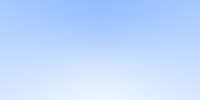
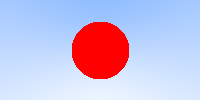
Ray tracing with sphere

Changed region(s): [[0.36, 0.21, 0.66, 0.81]]

diff --git a/src/main.rs b/src/main.rs
@@ -9,10 +9,22 @@ use std::path::Path;
 use ray::Ray;
 use vec3::Vec3;
 
-fn color(ray: &Ray) -> Vec3 {
-    let dir = ray.direction().normal();
-    let t = 0.5*(dir.y() + 1.0);
-    Vec3::new(1.0, 1.0, 1.0) * (1.0-t) + Vec3::new(0.5, 0.7, 1.0) * t
+fn hit_sphere(center: Vec3, radius: f32, ray: Ray) -> bool {
+    let oc = ray.origin() - center;
+    let a = ray.direction().dot(ray.direction());
+    let b = 2.0 * oc.dot(ray.direction());
+    let c = oc.dot(oc) - radius * radius;
+    b * b - 4.0 * a * c > 0.0
+}
+
+fn color(ray: Ray) -> Vec3 {
+    if hit_sphere(Vec3::new(0.0, 0.0, -1.0), 0.5, ray) {
+        Vec3::new(1.0, 0.0, 0.0)
+    } else {
+        let dir = ray.direction().normal();
+        let t = 0.5 * (dir.y() + 1.0);
+        Vec3::new(1.0, 1.0, 1.0) * (1.0 - t) + Vec3::new(0.5, 0.7, 1.0) * t
+    }
 }
 
 fn main() {
@@ -30,10 +42,10 @@ fn main() {
         let y = (height - y) as f32;
         let w = width as f32;
         let h = height as f32;
-        let u = x/w;
-        let v = y/h;
-        let r = Ray::new(origin, lower_left_corner + horizontal*u + vertical*v);
-        let col = color(&r);
+        let u = x / w;
+        let v = y / h;
+        let r = Ray::new(origin, lower_left_corner + horizontal * u + vertical * v);
+        let col = color(r);
         *pixel = image::Rgb(col.rgb());
     }
 

diff --git a/src/vec3.rs b/src/vec3.rs
@@ -1,5 +1,5 @@
 use std::f32;
-use std::ops::{Add, Mul};
+use std::ops::{Add, Sub, Mul};
 
 #[derive(Debug, Clone, Copy)]
 pub struct Vec3(f32, f32, f32);
@@ -22,6 +22,11 @@ impl Vec3 {
     pub fn z(&self) -> f32 {
         self.2
     }
+
+    pub fn dot(&self, other: Vec3) -> f32 {
+        self.0 * other.0 + self.1 * other.1 + self.2 * other.2
+    }
+
     pub fn length(&self) -> f32 {
         (self.0 * self.0 + self.1 * self.1 + self.2 * self.2).sqrt()
     }
@@ -47,6 +52,14 @@ impl Add for Vec3 {
     type Output = Vec3;
 
     fn add(self, other: Vec3) -> Vec3 {
+        Vec3::new(self.0 + other.0, self.1 + other.1, self.2 + other.2)
+    }
+}
+
+impl Sub for Vec3 {
+    type Output = Vec3;
+
+    fn sub(self, other: Vec3) -> Vec3 {
         Vec3::new(self.0 + other.0, self.1 + other.1, self.2 + other.2)
     }
 }

diff --git a/src/ray.rs b/src/ray.rs
@@ -1,6 +1,6 @@
 use vec3::Vec3;
 
-#[derive(Debug)]
+#[derive(Debug, Clone, Copy)]
 pub struct Ray {
     o: Vec3,
     d: Vec3,
